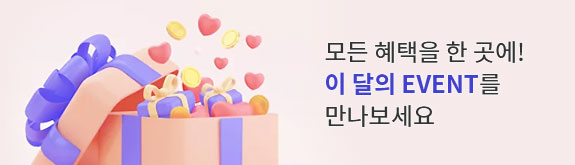
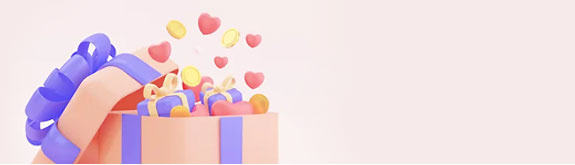
1

diff --git a/user/main.html b/user/main.html
@@ -293,10 +293,10 @@
         </div>
         <ul class="event-banner">
             <li>
-                <a href="https://www.bithumb.com/trade/auto_trading/BTC_KRW" target="_blank" class="hidden">빗썸 교차거래는 오토 트레이딩에서 무료로 이용하세요</a>
+                <a href="https://www.bithumb.com/trade/auto_trading/BTC_KRW" target="_blank">빗썸 교차거래는 <b class="point-font3">오토 트레이딩</b>에서 <b class="point-font3">무료</b>로 이용하세요</a>
             </li>
             <li>
-                <a href="javascript:void(0)" class="hidden eventGo">모든 혜택을 한 곳에 이달의 이벤트를 만나보세요</a>
+                <a href="javascript:void(0)" class="eventGo">모든 혜택을 한 곳에 <b class="point-font">이달의 이벤트</b>를 만나보세요</a>
             </li>
         </ul>
         <!--<div class="revenue">

diff --git a/user/asset/css/style.css b/user/asset/css/style.css
@@ -1322,22 +1322,25 @@ main
 
 .event-banner li {
     height: 165px;
+    display: flex;
+    justify-content: flex-end;
+    align-items: center;
+    padding: 0 40px;
 }
 
 .event-banner li a {
     display: block;
     width: 100%;
     height: 100%;
+    font-size: 24px;
 }
 
 .event-banner li:nth-child(1) a {
-    background: url('../img/banner/event_banner_01.jpg') no-repeat 85% 100%, #dde1e6;
-    background-size: cover;
+    background: url('../img/banner/event_banner_01.jpg') no-repeat 0 100%, #dde1e6;
 }
 
 .event-banner li:nth-child(2) a {
-    background: url('../img/banner/event_banner_02.jpg') no-repeat 85% 100%, #f7ebeb;
-    background-size: cover;
+    background: url('../img/banner/event_banner_02.jpg') no-repeat 0 100%, #f7ebeb;
 }
 
 .revenue {
